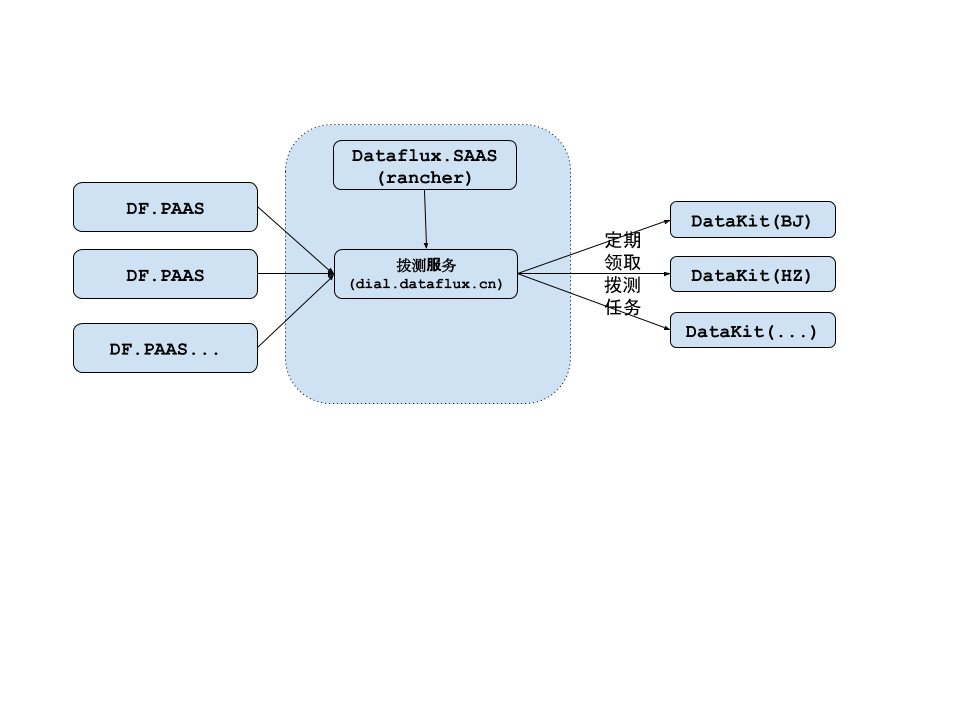
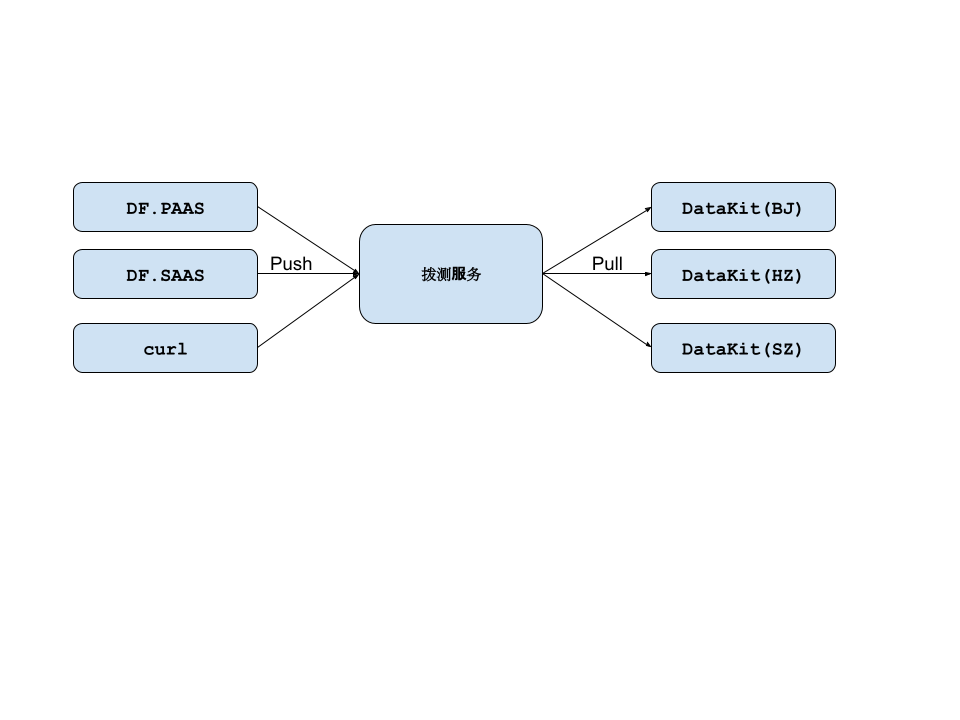
update: 	[*] 更新拨测文档
[formerly a8d3a92ad41693bbc29294cca7517485f2ac2c9e [formerly 65acd02db9cc858e00d1bdd7520f692b9b829090] [formerly c30aa37089f73205e5170e2a2ab8296c12e2e26a [formerly 5ced4b533bc08e9ad7f2f0631186fbf32b5e0de6]] [formerly c676ac7ab75a7bd1300105bb7af650244304839b] [formerly 7e4145329b247158866a91acdfe04709ccb2ff3f [formerly 6636929c38d726a1367813c32a7ec21269aa644b] [formerly 7e4145329b247158866a91acdfe04709ccb2ff3f [formerly 6636929c38d726a1367813c32a7ec21269aa644b] [formerly fe8f01f0b50c8b7376005329b8bdd34987c2853b [formerly d08b285883304654ed984aba37d53cdc959d9397]]]] [formerly 2865f7241f52158c0b6fe05864157fe904a2738b] [formerly f15233ec5b4ff49174c8494397719397ada522d1 [formerly 5ed9506951d377fe015ce0d3fc7e64b6210f2bd1] [formerly 7f6516b72cb21aa707db0549afc9d53f4d31b647 [formerly 6734de98984d46c67dd5b3a6812f67e1770822e6] [formerly 7f6516b72cb21aa707db0549afc9d53f4d31b647 [formerly 6734de98984d46c67dd5b3a6812f67e1770822e6] [formerly 7f6516b72cb21aa707db0549afc9d53f4d31b647 [formerly 6734de98984d46c67dd5b3a6812f67e1770822e6] [formerly 89202925fecbd94ddeb92cfcdcb3c977e0ed5e7d [formerly 5db88578d9a2031ba3d8736850334d8381b0b861]]]]]]]
 [formerly 2865f7241f52158c0b6fe05864157fe904a2738b]

Former-commit-id: 367a095c942fa9348b5590b62666d5b248512039 [formerly 9e306ae3f0480a1a740f6865cf6930a76bce6781]
[…]

Changed region(s): [[0.2812, 0.1528, 0.875, 0.5806], [0.125, 0.4583, 0.1875, 0.5194], [0.1562, 0.3667, 0.1875, 0.3972]]

diff --git a/plugins/inputs/dialtesting/README.md b/plugins/inputs/dialtesting/README.md
@@ -2,7 +2,7 @@
 
 全局定义：
 
-- 所有拨测产生的数据，都以行协议方式，通过 `/v1/write/logging` 接口存为日志数据
+- 所有拨测产生的数据，都以行协议方式，通过 `/v1/write/metric` 接口存为指标数据
 
 ## HTTP 拨测任务定义
 
@@ -14,8 +14,9 @@
 	"method": "POST",
 
 	# 拨测数据的存放地址，对 SAAS 而言，是 openway.dataflux.cn
-	# 对 PAAS 而言，需要一个单独的公网可访问的 Dataway
-	"post_url": "https://dataway.cn",
+	# 对 PAAS 而言，需要一个单独的公网可访问的 Dataway。这里的 token
+  # 对 Dataflux SAAS/PASSS 而言，实际上隐含了工作空间信息
+	"post_url": "https://dataway.cn?token=tkn_xxx",
 
 	# 用于更新任务时，停止执行
 	"stop": false, 
@@ -28,8 +29,15 @@
 
 	"frequency": "1m",   # 1min ~ 1 week
 
-	# 区域可多选
-	"locations": ["hangzhou", "beijing", "chengdu"],
+  ###############
+	# 区域
+  ###############
+
+	# 对 push 端而言，可多选
+	"regions": ["hangzhou", "beijing", "chengdu"],
+
+	# 对 pull 端而言，只能单选
+	"region": "hangzhou"
 	
 	"advance_options": {
 		"request_options": {
@@ -106,14 +114,31 @@
 		"url": "",
 		"用户额外指定的各种": "tags",
 
-		# 每个具体的 datakit 只会在一个 location，故这里只有单个值
-		"location": "", 
+		# 每个具体的 datakit 只会在一个 region，故这里只有单个值
+		"region": "",
+
+		"result": "OK", # 只有 OK/FAIL 两种状态，便于分组以及过滤查找
+
+		"status_code": "200/OK" # 便于分组以及过滤
+
+		# HTTP 协议版本，HTTP/1.0 HTTP/1.1 等
+		"proto": "HTTP/1.0"
 	},
 
 	"fields": {
-		"success": true/false,
-		# 如果 success == false
+		# 如失败，如实描述。如成功，无此指标
 		"fail_reason": "字符串描述失败原因"
+
+		# HTTP 相应时间, 单位 ms
+		"response_time": 300,
+
+		# 返回 body 长度，单位字节。如无 body，则无此指标，或者填 0
+		"content_length": 1024,
+
+		# 只有 1/-1 两种状态, 1 表示成功, -1 表示失败, 便于 UI 绘制状态跃迁图（TODO: 现在前端图标支持负数么）
+		"success": 1, 
+
+		# 其它指标可再增加...
 	},
 	"time": time.Now()
 }
@@ -132,7 +157,7 @@
 
 	# 拨测数据的存放地址，对 SAAS 而言，是 openway.dataflux.cn
 	# 对 PAAS 而言，需要一个单独的公网可访问的 Dataway
-	"post_url": "https://dataway.cn",
+	"post_url": "https://dataway.cn?token=tkn_xxx",
 
 	# 用于更新任务时，停止执行
 	"stop": false, 
@@ -143,7 +168,16 @@
 	},
 
 	"frequency": "1m",   # 1min ~ 1 week
-	"locations": ["hangzhou", "beijing", "chengdu"],
+
+  ###############
+	# 区域
+  ###############
+
+	# 对 push 端而言，可多选
+	"regions": ["hangzhou", "beijing", "chengdu"],
+
+	# 对 pull 端而言，只能单选
+	"region": "hangzhou"
 
 	"success_when":  [
 		{
@@ -166,15 +200,29 @@
 		"port": "",
 		"用户额外指定的各种": "tags",
 
-		# 每个具体的 datakit 只会在一个 location，故这里只有单个值
-		"location": "", 
+		# 每个具体的 datakit 只会在一个 region，这里只有单个值
+		"region": "",
+
+		"result": "OK", # 只有 OK/FAIL 两种状态，便于分组以及过滤查找
 	},
 
 	"fields": {
-		"success": true/false,
-		# 如果 success == false
+
+		# 如失败，如实描述。如成功，无此指标
 		"fail_reason": "字符串描述失败原因"
-	},
+
+		# TCP 连接建立时间, 单位 ms
+		"dial_time": 30,
+
+		# 域名解析时间，单位 ms
+		"resolve_time": 30,
+
+		# 只有 1/-1 两种状态, 1 表示成功, -1 表示失败
+		"success": 1,
+
+		# 其它指标可再增加...
+	}
+
 	"time": time.Now()
 }
 ```
@@ -190,7 +238,7 @@
 
 	# 拨测数据的存放地址，对 SAAS 而言，是 openway.dataflux.cn
 	# 对 PAAS 而言，需要一个单独的公网可访问的 Dataway
-	"post_url": "https://dataway.cn",
+	"post_url": "https://dataway.cn?token=tkn_xxx",
 
 	# 用于更新任务时，停止执行
 	"stop": false, 
@@ -201,7 +249,7 @@
 	},
 
 	"frequency": "1m",   # 1min ~ 1 week
-	"locations": ["hangzhou", "beijing", "chengdu"],
+	"regions": ["hangzhou", "beijing", "chengdu"],
 
 	"success_when":  [
 		{
@@ -242,14 +290,23 @@
 		"dns_server": "",
 		"用户额外指定的各种": "tags",
 
-		# 每个具体的 datakit 只会在一个 location，故这里只有单个值
-		"location": "", 
+		# 每个具体的 datakit 只会在一个 region，故这里只有单个值
+		"region": "", 
+		"result": "OK", # 只有 OK/FAIL 两种状态，便于分组以及过滤查找
 	},
 
 	"fields": {
-		"success": true/false,
-		# 如果 success == false
+
+		# 如失败，如实描述。如成功，无此指标
 		"fail_reason": "字符串描述失败原因"
+
+		# DNS 响应时间, 单位 ms
+		"response_time": 30,
+
+		# 只有 1/-1 两种状态, 1 表示成功, -1 表示失败
+		"success": 1,
+
+		# 其它指标可再增加...
 	},
 	"time": time.Now()
 }
@@ -257,36 +314,133 @@
 
 ## 架构设计
 
-用户在 Studio 中添加拨测任务后，具体的拨测任务以一条记录的方式存入 MySQL 中，MySQL 基础字段
-
-```sql
-CREATE TABLE IF NOT EXITS net_dial_testing (
-		`id` int(11) NOT NULL AUTO_INCREMENT COMMENT '自增 ID',
-		`uuid` varchar(48) NOT NULL COMMENT '全局唯一 ID，带 dialt_',
-
-		`location` varchar(48) NOT NULL COMMENT '拨测任务部署区域, 多个 location 之间逗号分割'
-
-		`workspaceUUID` varchar(48) NOT NULL DEFAULT '' COMMENT '工作空间UUID',
-
-		`status` int(11) NOT NULL DEFAULT '0' COMMENT '状态 0: ok/1: 故障/2: 停用/3: 删除',
-
-		`creator` varchar(64) NOT NULL DEFAULT '' COMMENT '创建者 account-id',
-		`updator` varchar(64) NOT NULL DEFAULT '' COMMENT '更新者 account-id',
-
-		`createAt` int(11) NOT NULL DEFAULT '-1',
-		`deleteAt` int(11) NOT NULL DEFAULT '-1',
-		`updateAt` int(11) NOT NULL DEFAULT '-1',
-
-		`task` text NOT NULL COMMENT '任务的 json 描述'
-		PRIMARY KEY (`id`),
-		UNIQUE KEY `uk_uuid` (`uuid`) COMMENT 'UUID 做成全局唯一',
-		KEY `k_ws_uuid` (`workspaceUUID`),
-		) ENGINE=InnoDB DEFAULT CHARSET=utf8mb4;
-```
-
 ### 整体架构设计
 
 ![拨测任务整体架构](net-dial-testing-arch.png)
+
+术语定义：
+
+- dialtesting：拨测服务的中心服务器，它提供一组 HTTP 接口，供授信的第三方推送拨测任务
+- datakit: 实际上是 datakit 中开启了具体的拨测采集器，此处统称 datakit，它跟线上的其它 datakit 没有实质区别
+- commit: 具体任务的 JSON 描述，它可以维护在 DataFlux 的 MySQL 中，也可以是一个简单的 JSON 文件
+- push: 任何授信的第三方（dataflux, curl 等），都能通过 HTTP 接口，往拨测中心**推送**拨测任务，一般而言，一个 commit 对应一个拨测任务，也可能多个 commit 对应的只有一个拨测任务（该任务经过多次修改，每个修改对应一个 commit）
+- clone: datakit 上采集器初次启动时，从中心同步**指定 region 上所有任务的 commit**
+- pull: datakit 以一定的频率，从中心拉取特定 region 上**最新**的服务
+- region: 拨测服务可能在全球设置 datakit 拨测节点，一个节点就是一个 region。一个节点可能有多个 datakit 参与，此处可设置一定的负载均衡策略（如全量 clone，但等分运行）
+- fork: 每个拨测任务可选择在**一个或多个 region**，假定选择了 3 个 region，实际上是该拨测任务的 3 个 fork
+
+说明：
+
+- 解耦考虑：DataFlux 也好，其它第三方也罢，可以各自维护一套自己的拨测任务逻辑，用以管理其拨测任务。比如，SAAS 某工作空间，新建了一个拨测任务 A，在 SAAS 平台，A 可能是 MySQL 中的一条表记录；对 dialtesting 而言，A 只是 SAAS 本地任务的一个 commit，**尚未** push 到 dialtesting
+- 便于部署：当 PAAS/SAAS 开通了拨测服务之后，即可将这些拨测任务 push 到 dialtesting 服务端。对于未开通拨测服务的平台，push 接口**应当**报错，但不影响具体 PAAS/SAAS 在 Web 前端提交新的拨测任务。一旦配置了 dialtesting 正确的授信信息，即可开通拨测服务（以 DataFlux 为例，可在拨测任务表中新增一列，代表是否 push 成功）
+- 拨测服务暂定域名 `dialtesting.dataflux.cn`，基于跨域的考虑，拨测服务的 API 不会在 Web 页面发起
+- 关于授信，可通过 AK/SK 等 API 签名的方式，故 dialtesting 应该提供完整的授权 API 以及开发文档，并尽可能提供常见语言的 SDK
+- 关于 fork： 逻辑上，单个任务的多 region fork，多个 region 之间相互独立。当第三方关闭某 region 的 fork 时，比如，原来某任务 A 创建了 hangzhou/chengdu 两个 region 的 fork，但用户取消了 chengdu 的拨测任务后，理应会向 chengdu push 一个新的 commit，该 commit 中 task 的 `stop` 字段为 `true`
+
+### 数据库表定义
+
+```sql
+-- 存储拨测任务信息
+CREATE TABLE IF NOT EXITS task (
+		`id` int(11) NOT NULL AUTO_INCREMENT COMMENT '自增 ID',
+		`uuid` varchar(48) NOT NULL COMMENT '全局唯一 ID，带 dialt_ 前缀',
+		`region` varchar(48) NOT NULL COMMENT '部署区域（只能有一个区域）'
+
+		`access_key` varchar(20) NOT NULL COMMENT '推送 commit 的 AK'
+
+		`create_at` int(11) NOT NULL DEFAULT '-1',
+
+		`task` text NOT NULL COMMENT '任务的 json 描述',
+		`hash` varchar(128) NOT NULL COMMENT '任务 hash，md5(access_key+task)',
+
+		INDEX `hash` (`idx_hash`) COMMENT '便于鉴定重复推送',
+
+		PRIMARY KEY (`id`),
+		UNIQUE KEY `uk_uuid` (`uuid`) COMMENT 'UUID 做成全局唯一',
+		) ENGINE=InnoDB DEFAULT CHARSET=utf8mb4;
+
+-- 存储 AK/SK 信息
+CREATE TABLE IF NOT EXITS aksk (
+		`id` int(11) NOT NULL AUTO_INCREMENT COMMENT '自增 ID',
+		`uuid` varchar(48) NOT NULL COMMENT '全局唯一 ID，带 aksk_ 前缀',
+		`access_key` varchar(20) NOT NULL COMMENT '推送 commit 的 AK'
+    `secret_key` varchar(40) NOT NULL COMMENT '推送 commit 的 SK'
+
+		`create_at` int(11) NOT NULL DEFAULT '-1',
+    `status` int(11) NOT NULL DEFAULT '0' COMMENT '状态 0: ok/1: 故障/2: 停用/3: 删除',
+		PRIMARY KEY (`id`),
+		UNIQUE KEY `uk_uuid` (`uuid`) COMMENT 'UUID 做成全局唯一',
+    UNIQUE KEY `uk_ak` (`access_key`) COMMENT 'AK 做成全局唯一',
+    UNIQUE KEY `uk_sk` (`secret_key`) COMMENT 'SK 做成全局唯一',
+		) ENGINE=InnoDB DEFAULT CHARSET=utf8mb4;
+```
+
+### API 定义
+
+#### `/v1/push | POST`
+
+```
+POST /v1/push HTTP/1.1
+Authorization: DIALTESTING <AK>:<sign>
+Content-Type: application/json
+
+<具体的 task-json>
+
+HTTP/1.1 200 OK  # 无 body 返回
+```
+
+#### `/v1/pull | GET`
+
+参数：
+
+- `region`：必填参数，指定拉取区域
+- `from`：可选参数，如不填，则拉取指定区域的所有任务（clone）。否则拉取 `id >= from` 的所有任务（pull）
+
+示例：
+
+```
+POST /v1/pull?region=<region>&from=<id> HTTP/1.1
+Authorization: DIALTESTING <AK>:<sign>
+
+HTTP/1.1 200 OK
+{
+	"access_key-1": [ // 某 PAAS 平台的 AK，下面即该平台 push 过来的所有 commit
+		{ "tcp-task" },
+		{ "http-task" },
+		{ "dns-task" },
+		...
+	],
+
+	"access_key-2": [
+		{ "tcp-task" },
+		{ "http-task" },
+		{ "dns-task" },
+		...
+	],
+}
+```
+
+注意，datakit 作为客户端 pull 任务，也需通过 AK/SK 签名方式拉取
+
+### 拨测任务策略
+
+中心任务管理策略
+
+- 任何经过认证的第三方，都可以往 dialtesting 推送（push）拨测任务
+- 对任意一个已有任务的更新、删除等操作，都会创建一个新的任务提交（commit），**`id`，`uuud` 等均不同**。但对于同一个任务 commit 的 push，如果 hash 值不变，push 接口直接 200 返回，不会创建新的 任务 commit
+
+datakit 端任务处理策略
+
+1. DataKit 采集器启动时，通过指定 region，从中心 clone 所有该 region 的任务。通过一定的合并策略，采集器最终执行合并后的具体的任务。合并策略：
+	- 轮询一遍 clone 下来的所有 commit（如总共 10K 个 commit，其中**有效任务** 1K 个）
+	- 取固定几个字段的值，通过一定的 hash 算法，即可判定是否是同一个任务
+	- hash 算法：`md5(AK + task-json)` 除了上述定义的基础字段外，第三方平台可在其中添加任何其它字段，如工作空间信息，这些都会计入 hash 计算。一些不太理智的第三方，可提交全部相同的 task，但这不影响 dialtesting 的正常运转。授信的第三方，应该提交差异化的 `task-json`。考虑到计算 hash 的性能开销以及高频率，这里暂用 md5（参见[这里](https://stackoverflow.com/questions/14139727/sha-256-or-md5-for-file-integrity)）
+
+2. DataKit 采集器以一定频率，从中心同步最新的任务。
+	- 对于更新了配置的任务，直接更新执行（将新的任务 json 发给当前运行的 go routine 即可）
+	- 对于删除的任务，停止执行
+	- 对于新增的任务，新开任务执行
+关于更新频率，可在初次 clone 时，由中心带下去，便于统一调整
 
 ### DataKit 配置
 
@@ -296,11 +450,11 @@ CREATE TABLE IF NOT EXITS net_dial_testing (
 [[inputs.dialtesting]]
 
 	# required
-	location = "hangzhou" 
+	region = "hangzhou" 
 
-	# default dial.dataflux.cn
-	server = "dial.dataflux.cn" 
+	# default dialtesting.dataflux.cn
+	server = "dialtesting.dataflux.cn" 
 
-	[[inputs.net_dial_testing.tags]]
+	[[inputs.dialtesting.tags]]
 	# 各种可能的 tag
 ```
